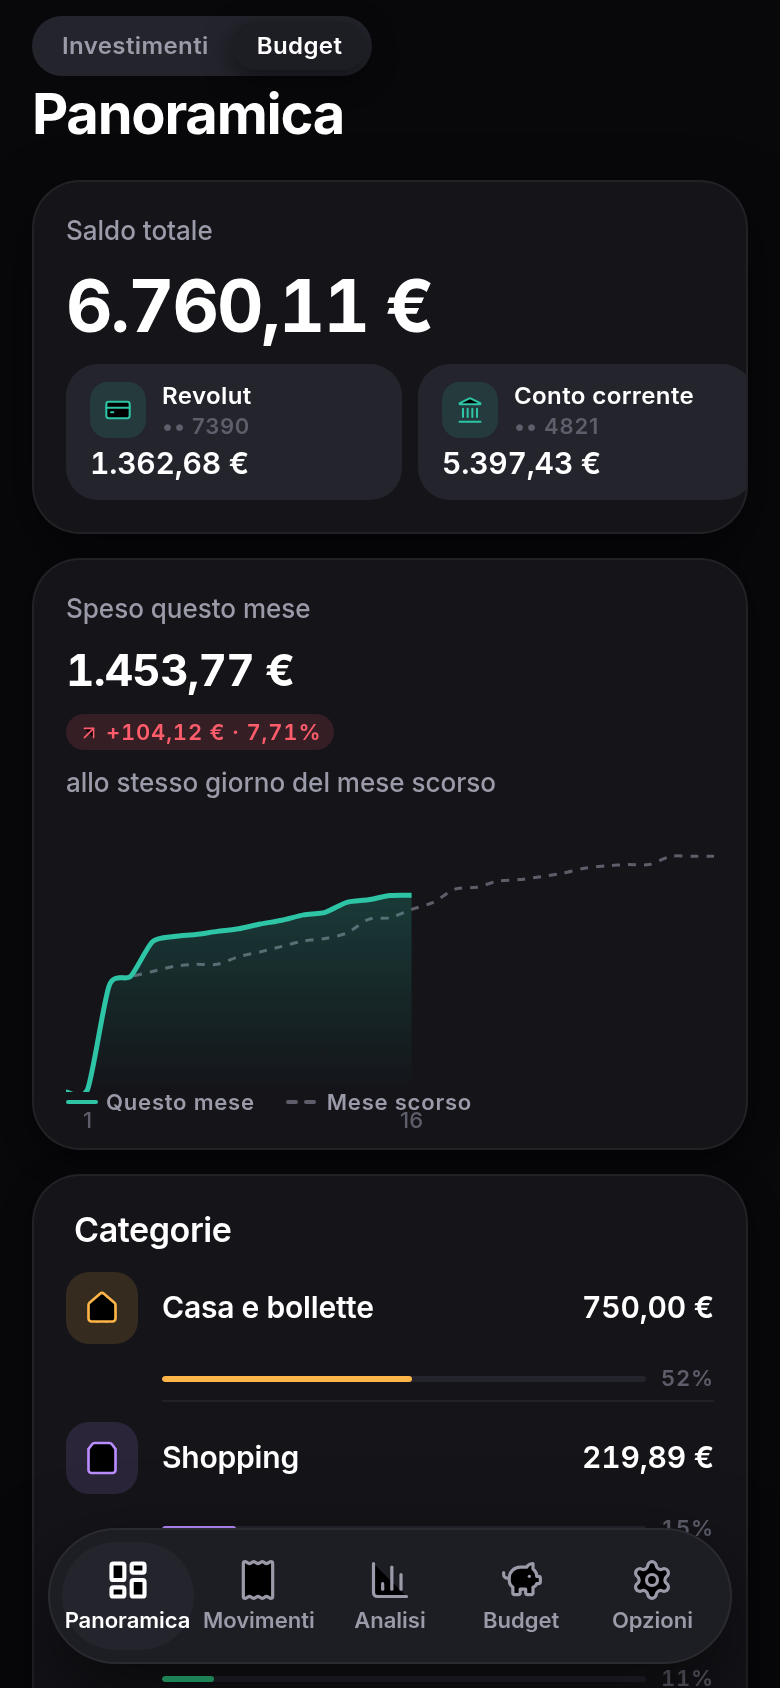
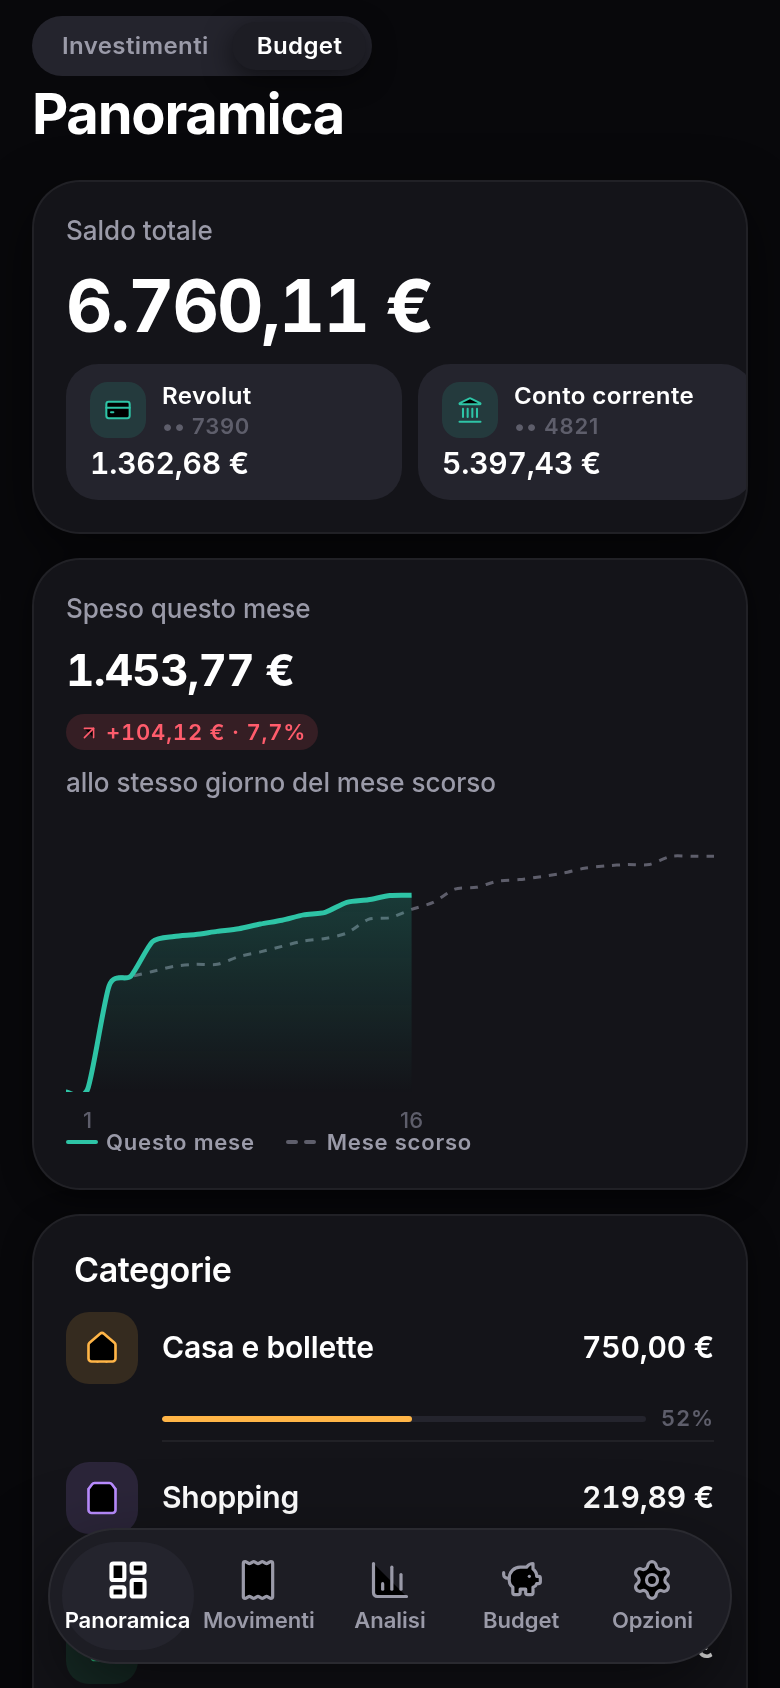
fix(budget): keep spend chart legend clear of day labels; change chip shows at most one decimal (12%, 7,7%)

diff --git a/__tests__/components-test.tsx b/__tests__/components-test.tsx
@@ -13,18 +13,18 @@ import { renderWithProviders } from '../test/test-utils';
 describe('<ChangeChip />', () => {
   test('shows a positive change with amount and percent', async () => {
     await renderWithProviders(<ChangeChip percent={4.6} amount={7113.62} testID="chip" />);
-    expect(screen.getByTestId('chip').props.accessibilityLabel).toMatch(/^In rialzo \+7\.113,62\s€ · 4,60%$/);
+    expect(screen.getByTestId('chip').props.accessibilityLabel).toMatch(/^In rialzo \+7\.113,62\s€ · 4,6%$/);
   });
 
   test('masks the amount in privacy mode', async () => {
     await renderWithProviders(<ChangeChip percent={-1.2} amount={-50} masked testID="chip" />);
-    expect(screen.getByText('•••• · 1,20%')).toBeTruthy();
+    expect(screen.getByText('•••• · 1,2%')).toBeTruthy();
     expect(screen.getByTestId('chip').props.accessibilityLabel).toMatch(/^In ribasso/);
   });
 
   test('spend tone treats an increase as negative', async () => {
     await renderWithProviders(<ChangeChip tone="spend" percent={12} amount={30} testID="chip" />);
-    expect(screen.getByTestId('chip').props.accessibilityLabel).toMatch(/^Spesa in aumento \+30,00\s€ · 12,00%$/);
+    expect(screen.getByTestId('chip').props.accessibilityLabel).toMatch(/^Spesa in aumento \+30,00\s€ · 12%$/);
   });
 });
 

diff --git a/src/components/charts/spend-compare-chart.tsx b/src/components/charts/spend-compare-chart.tsx
@@ -40,6 +40,8 @@ function axisLabel(day: number, last: number): string | undefined {
 
 /** Wider than `spacing`, which is all gifted-charts gives each x-axis label. */
 const DAY_LABEL_WIDTH = 28;
+/** Height of the x-axis day labels plus a small gap before the legend. */
+const DAY_LABEL_CLEARANCE = 24;
 
 type AxisPoint = lineDataItem & { labelWidth?: number };
 
@@ -233,7 +235,8 @@ export function SpendCompareChart({
           flexDirection: 'row',
           alignItems: 'center',
           gap: theme.spacing.lg,
-          marginTop: theme.spacing.xs,
+          // Day labels render below the plot area; keep the legend clear of them.
+          marginTop: DAY_LABEL_CLEARANCE,
         }}>
         <View style={{ flexDirection: 'row', alignItems: 'center', gap: theme.spacing.xs }}>
           <LegendMark color={accent} dashed={false} />

diff --git a/src/components/ui/change-chip.tsx b/src/components/ui/change-chip.tsx
@@ -52,7 +52,9 @@ export function ChangeChip({
   const icon = direction === 'up' ? ArrowUpRight : direction === 'down' ? ArrowDownRight : Minus;
   const iconSize = size === 'sm' ? 11 : 13;
 
-  const pct = formatPercent(Math.abs(percent), { signed: false });
+  // At most one decimal, none when it would be ",0" (12% not 12,0%).
+  const pctDecimals = Math.round(Math.abs(percent) * 10) % 10 === 0 ? 0 : 1;
+  const pct = formatPercent(Math.abs(percent), { signed: false, decimals: pctDecimals });
   const amt =
     amount === undefined ? null : masked ? MASK : formatMoney(amount, currency, { signed: true });
   const label = amt ? `${amt} · ${pct}` : pct;
